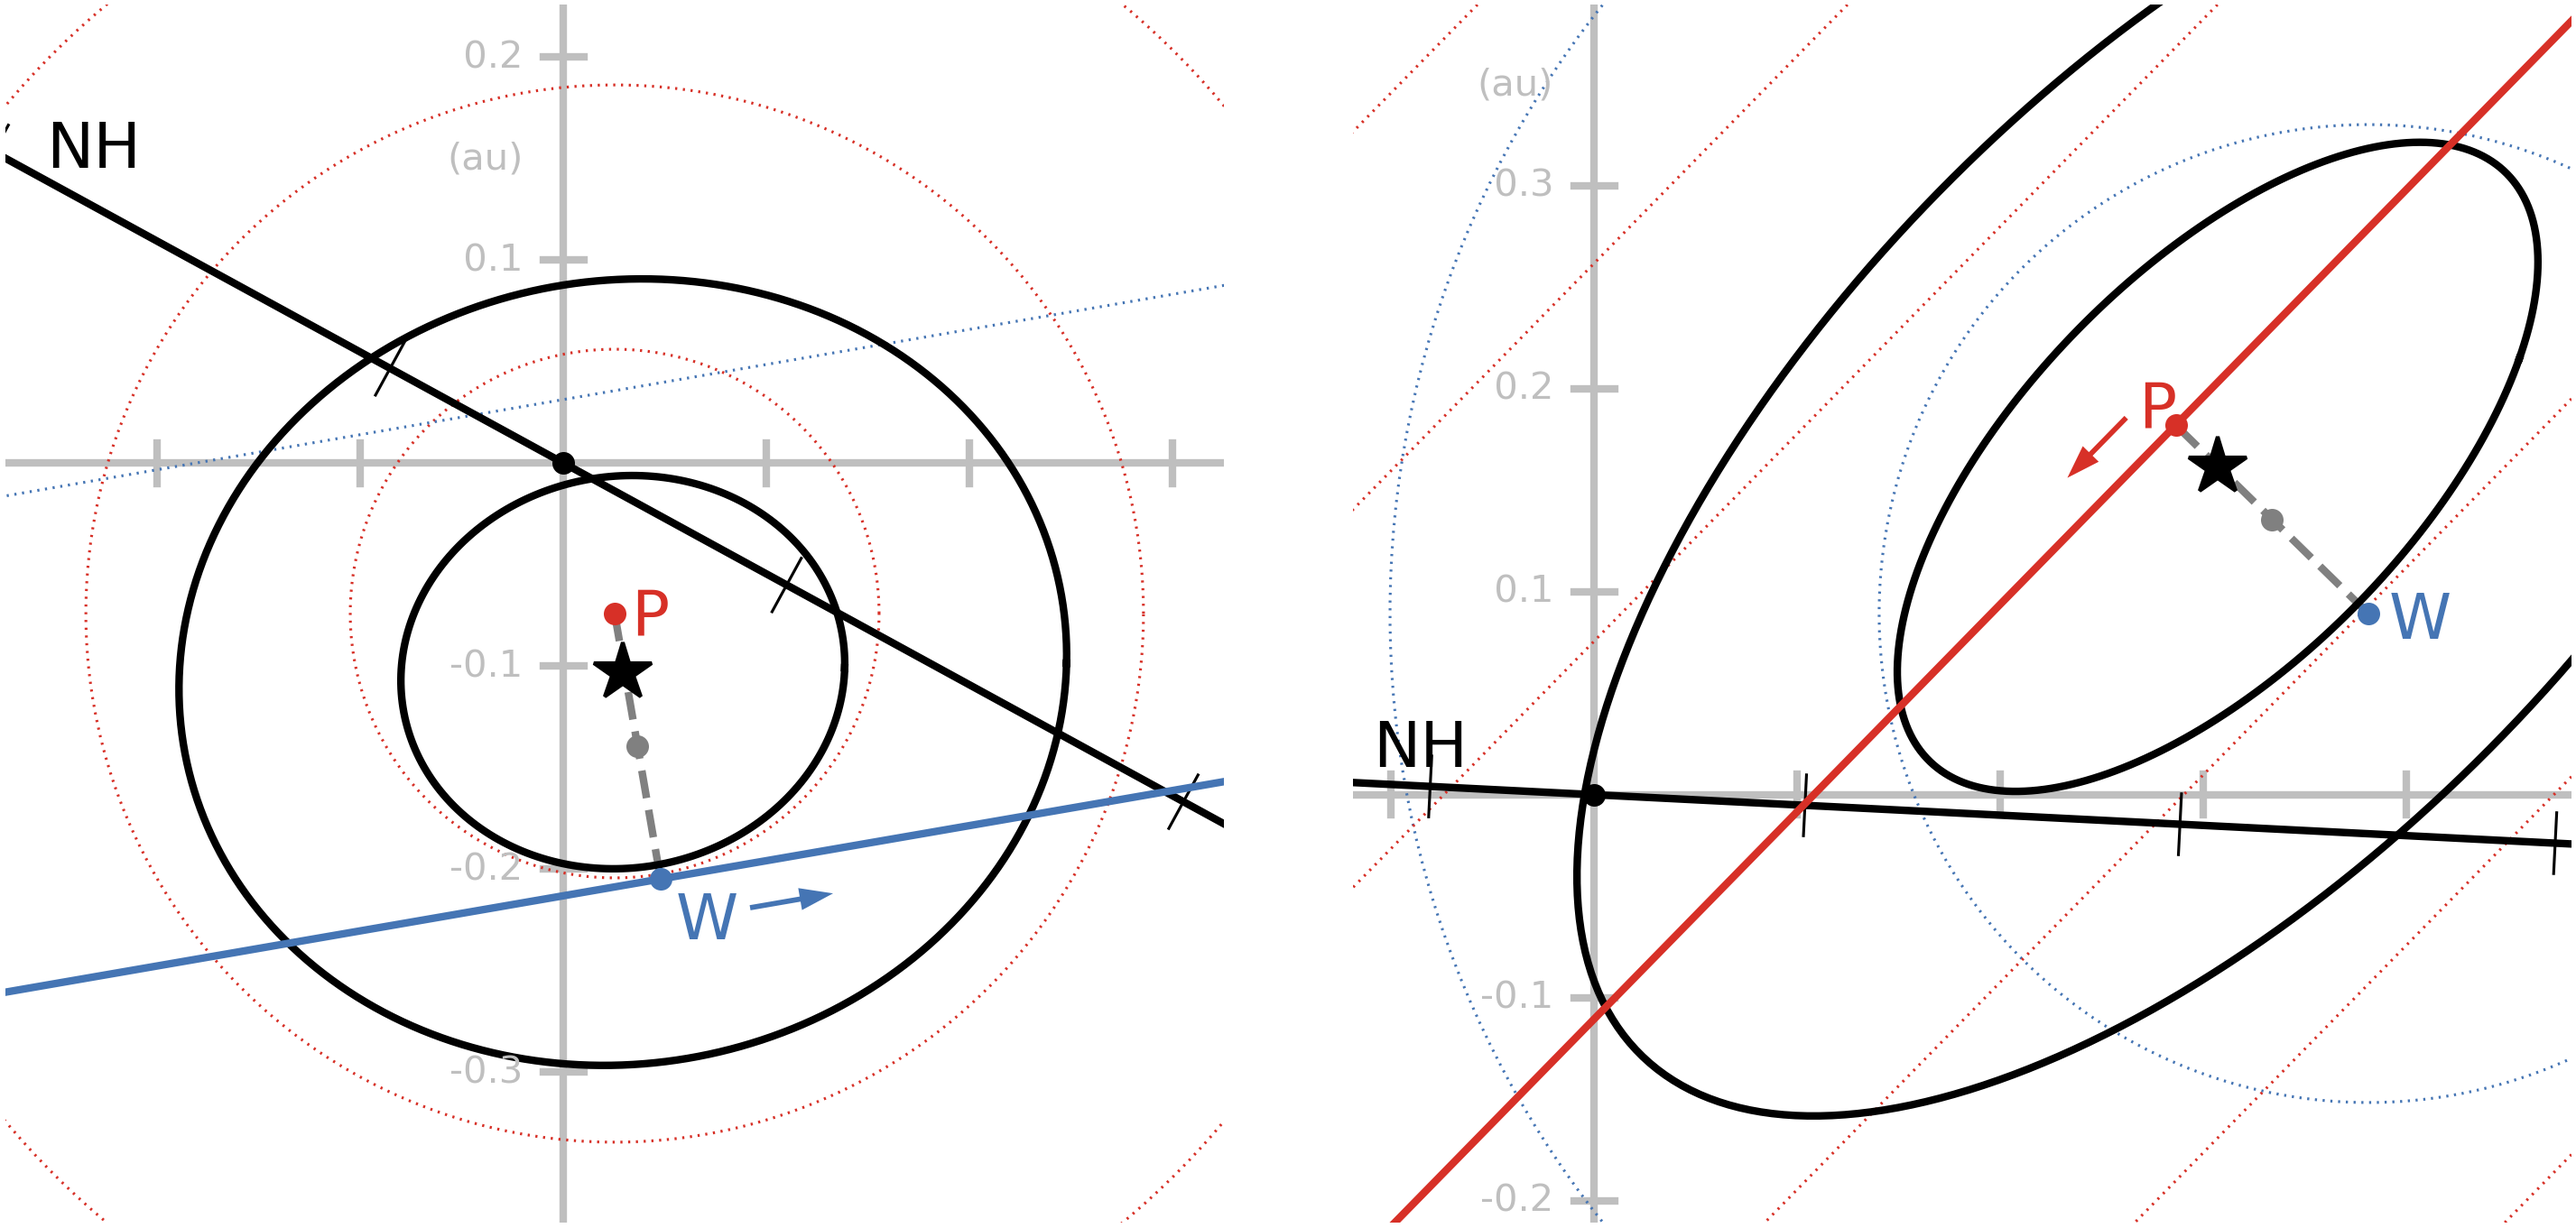
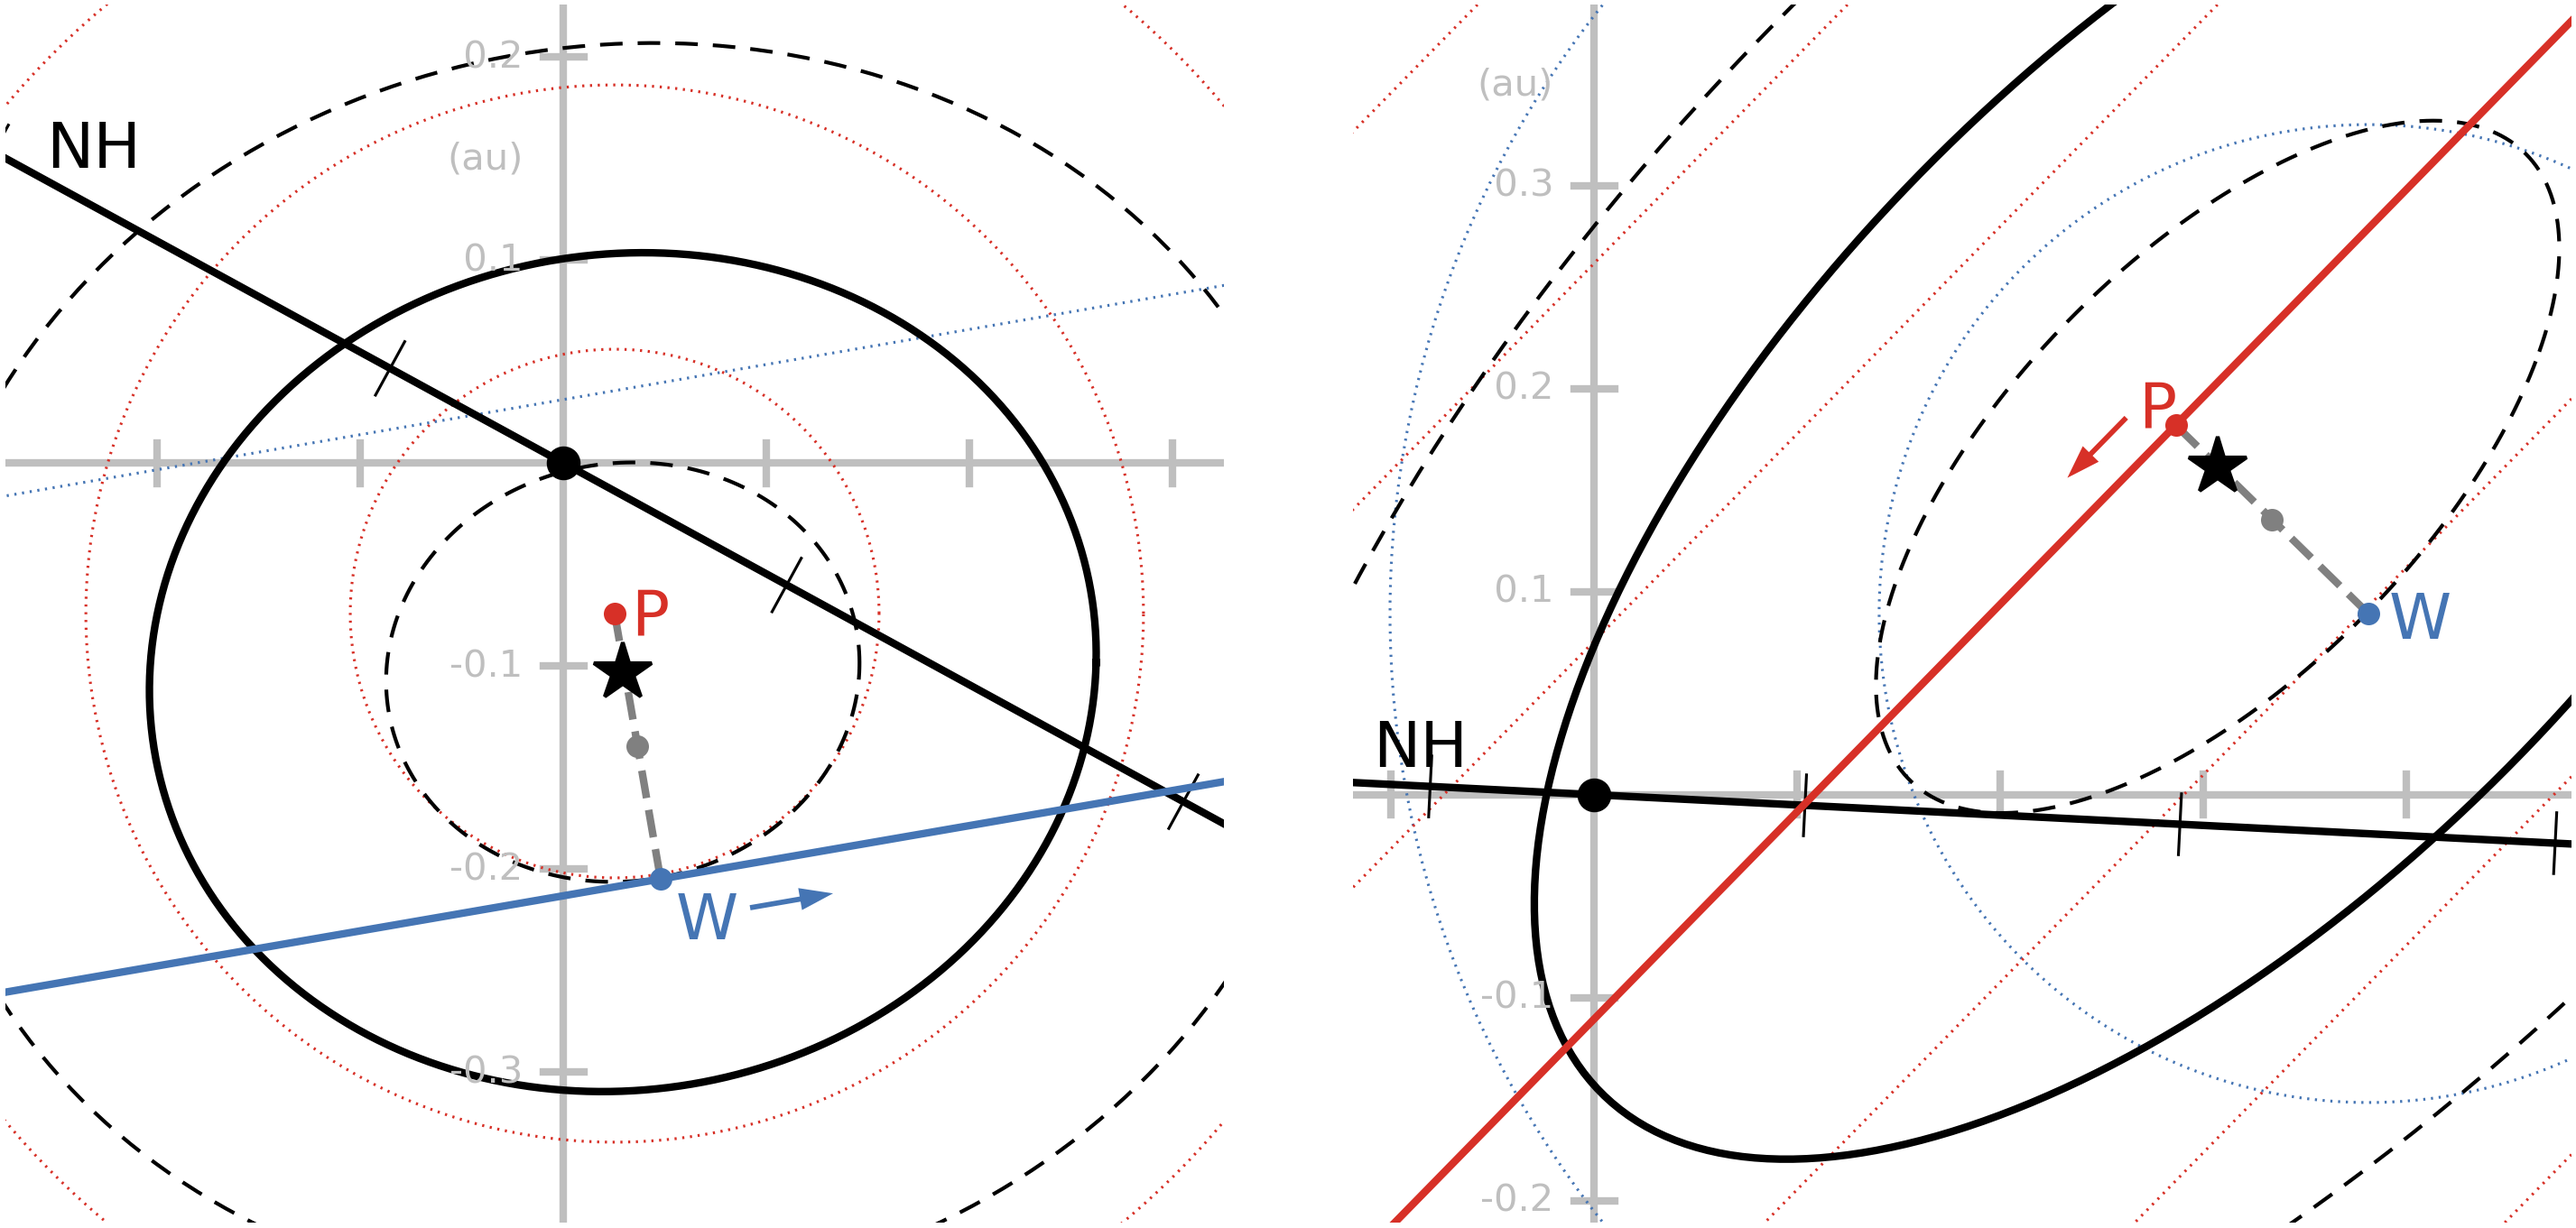
revised nhparaplots.fig2 for 0.44 arcsec

diff --git a/nhparaplots.py b/nhparaplots.py
@@ -5,7 +5,7 @@ from numpy import (array, arange, asfarray, pi, cos, sin, sqrt, arctan2,
 from scipy.linalg import svd
 from matplotlib import rc
 from matplotlib.pyplot import (clf, axes, axis, plot, text, arrow, savefig,
-                               figure)
+                               figure, fignum_exists)
 
 rc('lines', linewidth=2)
 
@@ -417,12 +417,21 @@ def ellipsoid(xcen, ycen, rot, xcov, sigma_d=1.e-6, npts=256):
 # For 6 aggregated images, actual  NH position 0.5*(nh_prox + nh_wolf)
 #   has chi2 = 4.2 for the 2 line fit (between 0.05 and 0.025 in chi2 distrib)
 #   or chi2 = 30.2 for the 12 line fit (between 0.1 and 0.05, near 0.1)
-def fig2(save=False, draw=False,  name="nhfig2.png", dpi=300):
-    fig_2 = figure(2, layout=None)
+#
+# With sigma_a = 0.44 arcsec per image,
+# nhmx6 = 0.5*(nh_prox+nh_wolf), x6inv = inv(x6cov)
+# actual position is nhmx6.dot(x6inv.dot(nhmx6))/sigma_a**2 = 0.9231 sigma
+def fig2(save=False, draw=False,  name="nhfig2.png", dpi=300,
+         sigma_a=0.44):
+    if not fignum_exists(2):
+        fig_2 = figure(2, layout=None)
+    else:
+        fig_2 = figure(2)
     fig_2.set_figwidth(10)
     fig_2.set_figheight(5)
     fig_2.set_dpi(100.)
     fig_2.clear()
+    sigma_a = sigma_a * pi/180./3600.
     gs = fig_2.add_gridspec(nrows=1, ncols=2, left=0.025, right=0.975,
                             top=0.95, bottom=0.05, hspace=0.05, wspace=0.1)
     ax0, ax1 = fig_2.add_subplot(gs[0, 0]), fig_2.add_subplot(gs[0, 1])
@@ -480,7 +489,7 @@ def fig2(save=False, draw=False,  name="nhfig2.png", dpi=300):
         ax.plot(*ticks, c="k", lw=0.75)
         ax.plot(*xy, c="k")
         # ax.plot(*(xytk + nh[:, None]), c="k")
-        ax.plot(*nh, "o", ms=5, c="k")
+        ax.plot(*nh, "o", ms=8, c="k")
         # gray dashed shortest distance line between P and W
         p0, p1 = los_dot, matmul(rot, _0-q)
         ax.plot([p0[0], p1[0]], [p0[1], p1[1]], "--", c="0.5")
@@ -488,8 +497,11 @@ def fig2(save=False, draw=False,  name="nhfig2.png", dpi=300):
         ax.plot(*kaplan, marker="o", ms=5, c="0.5")  # dot at midpoint
         weighted = matmul(rot, x6-q)  # wxyz-q
         ax.plot(*weighted, marker="*", ms=16, c="k")
-        ax.plot(*ellipsoid(*weighted, rot, x6cov, 1.e-6), c="k")
-        ax.plot(*ellipsoid(*weighted, rot, x6cov, 2.e-6), c="k")
+        ax.plot(*ellipsoid(*weighted, rot, x6cov, sigma_a), c="k")
+        ax.plot(*ellipsoid(*weighted, rot, x6cov, 0.5*sigma_a), c="k",
+                lw=1, dashes=[6, 4])
+        ax.plot(*ellipsoid(*weighted, rot, x6cov, 1.5*sigma_a), c="k",
+                lw=1, dashes=[6, 4])
         # P and W themselves with dots at closest approach
         ax.plot(*p0, "o", ms=5, c=c1)
         ax.plot(*line, c=c2)
